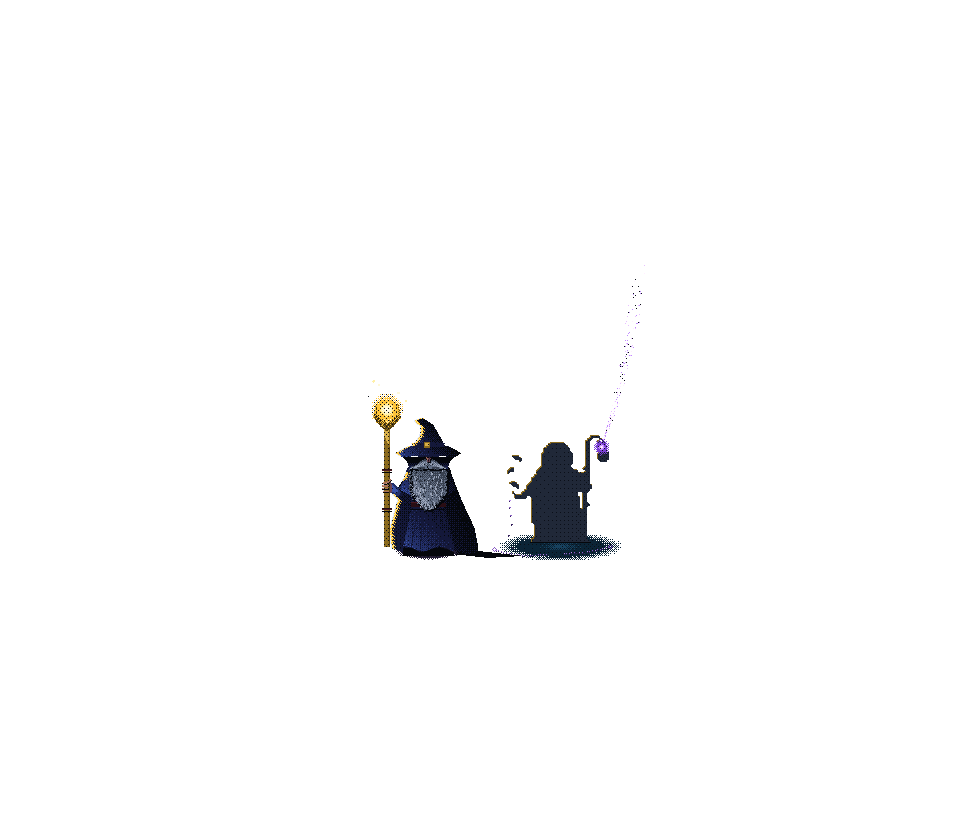
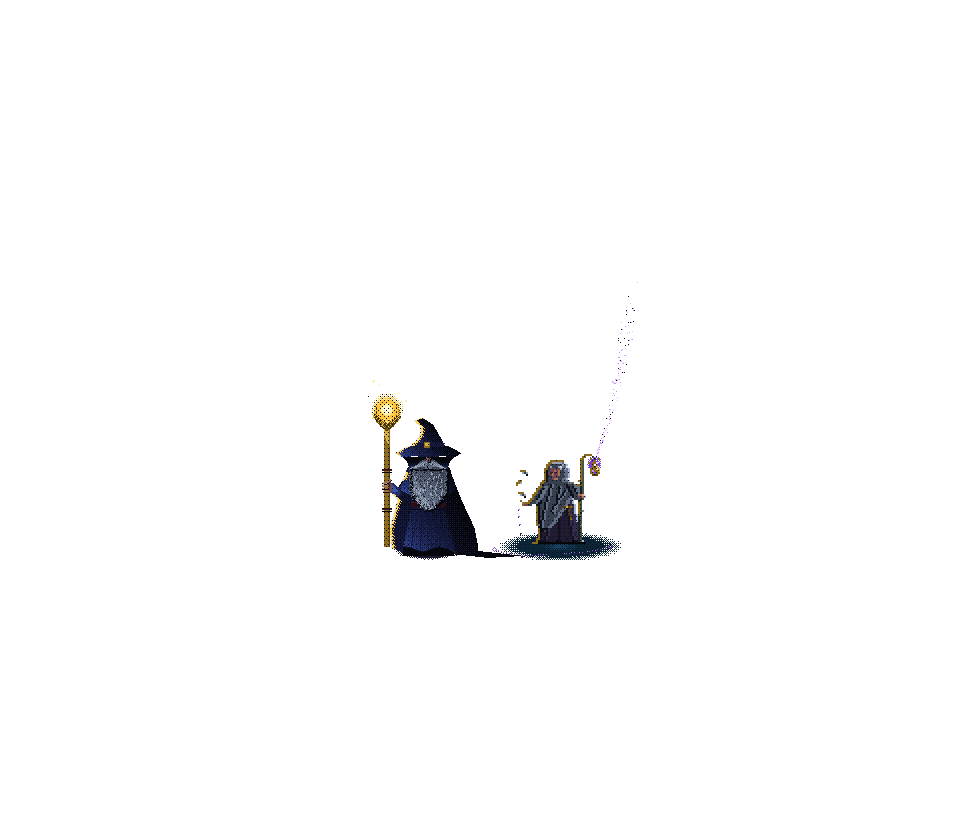
Cutscenes: the four and the freed wizards drawn from their real sprites
Eric, 2026-11-03: "Redraw with real sprites." The break, the five and the six freed reels
drew their wizards as flat one-colour silhouettes (roster_figure), which made Wayland one
amber shape. They are now each wizard's own 48 cell, every pixel, at a whole x2 on the
panel's grid (sprite_figure, SPRITE_K), in his own colours, rimmed one sprite pixel deep.

In the break the four begin three stops into the dark (_tone: pigments down their rows,
their element light out), their only lit edge the chain's light as violet pigment; from
the break the Archmage's gold; and each comes up into his own colours a stop at a time as
his light returns. The moot, the fall and the procession keep the silhouettes.
"You went back for them." stays.

Changed region(s): [[0.5312, 0.5262, 0.6562, 0.65]]

diff --git a/tools/art/prologue.py b/tools/art/prologue.py
@@ -1488,6 +1488,84 @@ def _wrist(who, strip, frame, cx, yb, h, facing):
     return ((x1 - 4) if facing > 0 else (x0 + 4), y)
 
 
+# --------------------------------------------------------------------------- the real sprites
+# Eric, 2026-11-03, of the freeing's flat one-colour cut-outs: "Redraw with real sprites." In the break, the
+# five and the freed reels a wizard is his own 48 cell, every pixel of it, at a whole x2 on the panel's grid
+# (one sprite pixel is two panel pixels, four on screen): his real colours and his real light, the figure
+# the character select shows. The flat silhouettes (roster_figure) stay where the story wants a shape and not
+# yet a person - the moot, the fall, the procession.
+SPRITE_K = 2
+
+
+def _tone(steps):
+    """A colour map that puts a sprite `steps` stops into the dark: every pigment that many stops down its own
+    row (past the deep end, occlusion), his own light out (the element ramps to dull steel, then occlusion),
+    the key's rims to stone. Empty for 0: the sprite as it is."""
+    m = {}
+    if steps <= 0:
+        return m
+    for name, ramp in sorted(M.items()):
+        for i, col in enumerate(ramp):
+            key = rgb(col)
+            if key not in m:
+                m[key] = rgb(ramp[i + steps]) if i + steps < len(ramp) else rgb(OCC)
+    dull = rgb([ST[3], ST[4], OCC][min(2, steps - 1)])
+    for name, ramp in sorted(E.items()):
+        for col in ramp:
+            m.setdefault(rgb(col), dull)
+    for col in (bl.RIM, RIM_SOFT):
+        m[rgb(col)] = rgb([S[2], S[3], S[4]][min(2, steps - 1)])
+    return m
+
+
+def sprite_figure(c, who, cx, yb, strip="idle", frame=0, facing=1, steps=0, rim=None, glow=True):
+    """One of the game's wizards as he is in the game: his 48 cell at a whole SPRITE_K, turned by facing, his
+    contact row on yb (where roster_figure puts it, so the two stand on the same ground).
+
+    steps: how far into the dark (_tone) - 0 his real colours. rim=(dx, dy, colour): the sprite pixels on the
+    edge facing a light lit in that colour, one SPRITE pixel deep (lit on the cell, before the scale, so the
+    rim sits on his own grid and not on a finer one). glow: his own light's halo behind the anchor his element
+    sits at (silhouette), only while he is in his colours.
+    Returns (light, box): his light's centre, or None, and the drawn box (x0, y0, x1, y1), in frame pixels."""
+    prefix, carried, burns = who
+    k = SPRITE_K
+    cell = _sprite_cell(prefix, strip, frame)
+    if facing < 0:
+        cell = cell.transpose(Image.FLIP_LEFT_RIGHT)
+    s = Cv(CELL + 2, CELL + 2)
+    s.img.paste(cell, (1, 1), cell)
+    s.px = s.img.load()
+    tone = _tone(steps)
+    if tone:
+        for y in range(s.h):
+            for x in range(s.w):
+                p = s.px[x, y]
+                if p[3] and p in tone:
+                    s.px[x, y] = tone[p]
+    if rim:
+        edge_light(s, rim[2], rim[:2])
+    big = s.img.resize((s.w * k, s.h * k), Image.NEAREST)
+    left = int(round(cx - (CELL / 2.0 + 1) * k))
+    top = int(round(yb - CELL * k))
+    _pixels, anchor = silhouette(prefix, strip, frame, carried)
+    light = None
+    if anchor:
+        light = (cx + (anchor[0] - CELL / 2.0) * k * facing, yb + (anchor[1] - (CELL - 1)) * k)
+        if glow and steps <= 0:
+            ramp = E[burns]
+            c.radial(light[0], light[1], 4.2 * k, 4.2 * k, [ramp[3], ramp[3], None])
+    c.img.paste(big, (left, top), big)
+    c.px = c.img.load()
+    bx = big.getbbox() or (0, 0, big.size[0], big.size[1])
+    return light, (left + bx[0], top + bx[1], left + bx[2], top + bx[3])
+
+
+def sprite_wrist(box, facing):
+    """The point a chain holds a sprite figure by: his front, a little over half way down what is drawn of him."""
+    x0, y0, x1, y1 = box
+    return ((x1 - 2 * SPRITE_K) if facing > 0 else (x0 + 2 * SPRITE_K), y0 + (y1 - y0) * 0.56)
+
+
 def _chain_pts(a, b, n=40, sag=8.0):
     return [(a[0] + (b[0] - a[0]) * (k / float(n - 1)),
              a[1] + (b[1] - a[1]) * (k / float(n - 1)) + math.sin(k / float(n - 1) * math.pi) * sag)
@@ -1581,21 +1659,31 @@ def _break_frame(t, him):
         k = min(1.0, (t - BREAK_LIGHT_UP) / 0.5)
         c.radial(HIM_X, HIM_Y + 2, 70 + 80 * k, 18 + 18 * k, [G[2], G[3], G[3], G[4], G[4], None])
     wrists = []
+    broken = t >= BREAK_AT[0]
     for i, (who, x, y, h, f) in enumerate(FREED_FOUR):
-        relit = t >= RELIGHT_AT[i]
-        coming = RELIGHT_AT[i] - 0.6 <= t < RELIGHT_AT[i]
+        since = t - RELIGHT_AT[i]
+        coming = -0.6 <= since < 0
+        # His own sprite, kneeling (the second frame of his fall), three stops into the dark while the chain
+        # holds him, and coming up into his own colours a stop at a time as his light returns (Eric:
+        # "Redraw with real sprites").
+        steps = 3 if since < 0 else (2 if since < 0.2 else (1 if since < 0.4 else 0))
+        # Their only lit edge before the break is the dark wizard's light, his chain's, landing as the violet
+        # it makes (the rule: his ramp is emission on him and the chain alone); once the chain breaks it is
+        # the Archmage's gold, from his staff.
+        if broken:
+            toward = (HIM_X - x, (HIM_Y - 60) - (y - 50))
+            n = math.hypot(*toward) or 1.0
+            rim = (toward[0] / n, toward[1] / n, G[2])
+        else:
+            rim = (f, 0, V[2])
+        light, box = sprite_figure(c, who, x, y, strip="death", frame=1, facing=f, steps=steps, rim=rim)
         # Their own light coming back to them, out of the sky it was drawn into, just before it lights.
-        if coming or relit:
-            ax, ay = light_at(who, x, y, h, "death", 1, f)
-            span = min(1.0, (t - (RELIGHT_AT[i] - 0.6)) / 0.6)
+        if light and (coming or since >= 0):
+            ax, ay = light
+            span = min(1.0, (since + 0.6) / 0.6)
             motes(c, (ax - f * 40, ay - 120), (ax, ay), int(70 * span) if coming else 18, 900 + i,
                   [E[who[2]]], spread=10, bow=-14)
-        toward = (HIM_X - x, (HIM_Y - 60) - (y - h * 0.5))
-        n = math.hypot(*toward) or 1.0
-        rim = (toward[0] / n, toward[1] / n, G[2]) if lit else (0, -1, V[3])
-        roster_figure(c, who, x, y, h, [OCC, S[4]], strip="death", frame=1, facing=f,
-                      lit=relit, dim=not relit, toward=rim)
-        wrists.append(_wrist(who, "death", 1, x, y, h, f))
+        wrists.append(sprite_wrist(box, f))
     # The chain: three lengths, wrist to wrist, the middle one behind him.
     spans = [(wrists[0], wrists[1]), (wrists[1], wrists[2]), (wrists[2], wrists[3])]
     order = [1, 0, 2]
@@ -1622,11 +1710,13 @@ def _break_frame(t, him):
 
 def p_break():
     """6. "You went back for them." The hiding's heath again, the tower on its horizon, and the four he
-    could reach - the disciplines - on their knees in a row, bound wrist to wrist by his chain, their
-    staves dark. The Archmage, the one he missed, stands in the middle of them, the title's own figure, his light
-    banked as it was in the hiding. It comes up (animated): his light finds the chain and it breaks,
-    the length behind him first, then the others, link by link going out as it flies; and one after
-    another their own lights come back to them out of the sky they were drawn into."""
+    could reach - the disciplines, each his own sprite (sprite_figure) put three stops into the dark - on
+    their knees in a row, bound wrist to wrist by his chain, its violet their only lit edge, their staves
+    dark. The Archmage, the one he missed, stands in the middle of them, the title's own figure, his light
+    banked as it was in the hiding. It comes up (animated): his light finds the chain and it breaks, the
+    length behind him first, then the others, link by link going out as it flies, and his gold is on their
+    edges now; and one after another their own lights come back to them out of the sky they were drawn
+    into, and each comes up into his own colours a stop at a time."""
     back, mid, fore = frame(True), frame(), frame()
     sky(back, 0, 420, [OCC, OCC, S[4], V[4], V[3]])
     stars(back, (0, 0, FW, 340), 240, 151)
@@ -1683,8 +1773,8 @@ def p_break():
 
 def p_five():
     """7. The five of them. The same heath and the same places: the four stand up where they knelt, each
-    staff burning his own element again and each robe back in the deep end of his own colour - the moot's
-    colours, the first time since the circle - and in the middle, in his warded circle, the Archmage.
+    his own sprite in his own colours, his staff burning his own element again - and in the middle, in his
+    warded circle, the Archmage.
     His chain lies on the ground in front of them, dead. Five lights on the heath where there was one; no
     line - the next panel is the road, and the one after it the player choosing which of them walks it."""
     back, mid, fore = frame(True), frame(), frame()
@@ -1717,12 +1807,12 @@ def p_five():
         mid.set(x + 1, y, S[4] if rng.random() < 0.6 else OCC)
         if rng.random() < 0.3:
             mid.set(x + 2, y + 1, OCC)
-    # The four, standing, their lights back. Back to front.
+    # The four, standing, their lights back: each his own sprite in his own colours (Eric: "Redraw with real
+    # sprites"), rimmed on the side that faces the Archmage's light. Back to front.
     for (who, x, y, h, f) in sorted(FREED_FOUR, key=lambda e: e[2]):
         toward = (HIM_X - x, -0.6 * abs(HIM_X - x))
         n = math.hypot(*toward) or 1.0
-        light, _front = roster_figure(mid, who, x, y + 4, h + 2, [ROBE[who[0]], OCC], strip="idle", frame=0,
-                                      facing=f, toward=(toward[0] / n, toward[1] / n, G[2]))
+        sprite_figure(mid, who, x, y + 4, strip="idle", frame=0, facing=f, rim=(toward[0] / n, toward[1] / n, G[2]))
     hero.wizard_hero(mid, HIM_X, HIM_Y, h=HIM_H, staff_ramp=LT)
     heath(fore, 600, 840, 900, 159, [(OCC, OCC), (OCC, S[4])], scale=1.7)
     layers = dict(back=back, mid=mid, fore=fore)

diff --git a/tools/art/freed.py b/tools/art/freed.py
@@ -11,11 +11,11 @@ scripts/Freeings.cs says when. Runs under Python 2.7 and 3 (PIL only), every ran
 rng.random(), as prologue.py's are.
 
 A TEMPLATE, NOT SIX PICTURES. One panel, the same for everyone: the heath at night with his tower on the
-horizon, the Archmage - the one he missed, the title's own figure (hero.wizard_hero) - with his light up, and beside him the
-wizard he has just freed - cut from that wizard's real sprite exactly as the prologue cuts the four
-(prologue.roster_figure: the 48 cell's pixels, filled flat in the deep end of his own colour, lit only where
-his own element sits in the sprite) - standing, his chain broken off him and falling, and his light coming
-back to him out of the sky it was drawn into. The ground and the near heath are one pair of layers shared
+horizon, the Archmage - the one he missed, the title's own figure (hero.wizard_hero) - with his light up, and
+beside him the wizard he has just freed: his real sprite, every pixel of his 48 cell at a whole x2 in his own
+colours (prologue.sprite_figure; Eric, 2026-11-03: "Redraw with real sprites" - the flat one-colour cut-out
+this drew first made Wayland one amber shape), standing, his chain broken off him and falling, and his light
+coming back to him out of the sky it was drawn into. The ground and the near heath are one pair of layers shared
 by every panel (freed-back.png, freed-fore.png); only the mid layer is the wizard's (freed-<id>-mid.png).
 So a wizard added to the roster is one row in WIZARDS, here, and one in Freeings.cs.
 
@@ -50,22 +50,22 @@ OUT = os.path.join(ROOT, "assets", "bonelight", "ui", "freed")
 PREVIEW = os.path.join(HERE, "_freed")
 
 # The wizards a chapter holds and the player frees there (UnlockCatalog: a FromEvent or chapter-deed
-# character with a rescue chapter; Freeings.WizardIds, in the same order). (character id, sprite prefix,
-# the ramp his light is in the sprite, the ramp it burns here, the deep end of his own colour.)
+# character with a rescue chapter; Freeings.WizardIds, in the same order). (character id, (sprite prefix,
+# the ramp his light is in the sprite, the ramp it burns here).)
 # Laelaps carries no light of his own (the prologue's rule): his collar's star is found as light, and it
 # burns his wind.
 WIZARDS = [
-    ("tituba", ("tituba", "water", "water"), V[3]),
-    ("vainamoinen", ("vainamoinen", "grass", "grass"), M["azure"][4]),
-    ("seimei", ("seimei", "light", "light"), LI[4]),
-    ("wayland", ("wayland", "metal", "metal"), M["amber"][4]),
-    ("sibyl", ("sibyl", "arcane", "arcane"), ST[4]),
-    ("laelaps", ("laelaps", "light", "wind"), G[4]),
+    ("tituba", ("tituba", "water", "water")),
+    ("vainamoinen", ("vainamoinen", "grass", "grass")),
+    ("seimei", ("seimei", "light", "light")),
+    ("wayland", ("wayland", "metal", "metal")),
+    ("sibyl", ("sibyl", "arcane", "arcane")),
+    ("laelaps", ("laelaps", "light", "wind")),
 ]
 
 # Where they stand: the Archmage left of the middle, the freed wizard right of it, turned to him.
 HIM_X, HIM_Y, HIM_H = 428, 548, 120
-WIZ_X, WIZ_Y, WIZ_H = 560, 542, 112
+WIZ_X, WIZ_Y = 560, 542
 
 
 def p_ground():
@@ -92,21 +92,24 @@ def p_ground():
     return back, fore
 
 
-def p_freed(who, robe, seed):
+def p_freed(who, seed):
     """One wizard's mid layer: him, and the wizard he has freed."""
     mid = pr.frame()
     prefix, carried, burns = who
     halo = pr.HALO[burns]
     mid.radial(WIZ_X, WIZ_Y + 4, 64, 15, [halo[3], halo[4], halo[4], None])
+    # Where his sprite puts his light and his wrist, measured on a scratch layer: the motes go behind him.
+    rim = (-0.8, -0.5, G[2])
+    light, box = pr.sprite_figure(pr.frame(), who, WIZ_X, WIZ_Y, strip="idle", frame=0, facing=-1, rim=rim)
     # His light coming back to him, out of the sky (the procession's motes, the other way).
-    ax, ay = pr.light_at(who, WIZ_X, WIZ_Y, WIZ_H, "idle", 0, -1)
+    ax, ay = light or ((box[0] + box[2]) / 2.0, box[1] + 10)
     pr.motes(mid, (ax + 40, ay - 180), (ax, ay), 190, seed, [E[burns]], spread=16, bow=-24)
     # The chain off him. Drawn after him, in front: two lengths of it on the ground at his feet with the
     # light still going out of them, its two shackles open, and the last of it falling from his wrist.
     # (Dead links in occlusion on the dark ground were tried first and could not be seen at all: the
     # chain is his light, and it has to read as his chain going out, not as gravel.)
     rng = random.Random(seed + 1)
-    wx, wy = pr._wrist(who, "idle", 0, WIZ_X, WIZ_Y, WIZ_H, -1)
+    wx, wy = pr.sprite_wrist(box, -1)
     chain = []
     for (a, b, sag) in [((WIZ_X - 64, WIZ_Y + 8), (WIZ_X - 14, WIZ_Y + 12), 3.0),
                         ((WIZ_X + 4, WIZ_Y + 11), (WIZ_X + 48, WIZ_Y + 5), 2.0)]:
@@ -115,8 +118,7 @@ def p_freed(who, robe, seed):
     falling = []
     for k, col in enumerate([DK[1], DK[2], DK[2], DK[3], DK[3], V[3]]):
         falling.append((wx - 2 + (rng.random() - 0.5) * 1.6 * k, wy + 5 + k * 6 + k * k * 0.7, col))
-    pr.roster_figure(mid, who, WIZ_X, WIZ_Y, WIZ_H, [robe, OCC], strip="idle", frame=0, facing=-1,
-                     toward=(-0.8, -0.5, G[2]))
+    pr.sprite_figure(mid, who, WIZ_X, WIZ_Y, strip="idle", frame=0, facing=-1, rim=rim)
     for pts in chain:
         pr._chain(mid, pts, colors=(DK[2], DK[1]))
     for (x, y) in shackles:
@@ -155,10 +157,10 @@ def main(argv):
     back.img.save(os.path.join(OUT, "freed-back.png"))
     fore.img.save(os.path.join(OUT, "freed-fore.png"))
     print("%-18s %d off-contract pixels" % ("freed (ground)", sum(bad.values())))
-    for i, (wid, who, robe) in enumerate(WIZARDS):
+    for i, (wid, who) in enumerate(WIZARDS):
         if want and wid not in want:
             continue
-        mid = p_freed(who, robe, 700 + i * 10)
+        mid = p_freed(who, 700 + i * 10)
         pr.finish(dict(mid=mid), 0.9, cy=pr.CY + 60)
         bad = pr.audit(dict(mid=mid))
         total_bad += sum(bad.values())

diff --git a/.ai/cutscenes.md b/.ai/cutscenes.md
@@ -16,7 +16,7 @@ Three things, and each beat below uses at least one:
 
 1. **He acts.** Until now the story shows him hiding (the prologue's panel 5) and walking away (panel 6).
    A hero the player is asked to be has to *do* something on screen: break a chain, go back for someone.
-2. **He is seen with the people he saved.** The wizards are the game's own, cut from their real sprites,
+2. **He is seen with the people he saved.** The wizards are the game's own, drawn from their real sprites,
    so the one standing beside him in a cutscene is the one the player picks on the next screen.
 3. **"You."** The prologue already says *"You are the one he missed."* One more line in that voice makes
    what he does the player's own act. Never more than one line a beat (Eric: *"Overall keep text minimal."*).
@@ -55,8 +55,8 @@ played straight after:
 
 | # | panel | line | what |
 |---|---|---|---|
-| 6 | The break (`break`, 5.4 s) | *You went back for them.* | **Animated.** The hiding's heath, his tower on the horizon. The four disciplines - Pyromancer, Geomancer, Frostweaver, Stormcaller, cut from their real sprites (the second frame of each one's death strip: going down) - kneel in a row, bound wrist to wrist by the dark wizard's chain of light, their staves dark. The Archmage stands in the middle of them, the title's own figure, his light banked as it was in the hiding. At 1.3 s it comes up; at 2.0 s it bursts and the chain breaks - the length behind him first, then the outer two, then the shackles - link by link going out as it flies (the darkness ramp down to violet, then nothing), one link in four falling dead to the ground. From 3.2 s their own lights come back to them one after another, motes falling out of the sky they were drawn into in panel 4. |
-| 7 | The five (`five`, 4.8 s) | - | The same heath and the same places: the four stand where they knelt (the dissolve is the moment they rise), each staff burning his own element again and each robe back in the deep end of his own colour - the moot's colours, the first time since the circle. The Archmage in the middle, in his warded circle as on the title. Each light's pool on the ground in the pigment it makes; the dead chain on the ground in front of them. Five lights on the heath where the last two panels had one. |
+| 6 | The break (`break`, 5.4 s) | *You went back for them.* | **Animated.** The hiding's heath, his tower on the horizon. The four disciplines - Pyromancer, Geomancer, Frostweaver, Stormcaller, each his own real sprite (the second frame of his death strip: going down) put three stops into the dark - kneel in a row, bound wrist to wrist by the dark wizard's chain of light, their staves dark, the chain's violet their only lit edge. The Archmage stands in the middle of them, the title's own figure, his light banked as it was in the hiding. At 1.3 s it comes up; at 2.0 s it bursts and the chain breaks - the length behind him first, then the outer two, then the shackles - link by link going out as it flies (the darkness ramp down to violet, then nothing), one link in four falling dead to the ground, and the Archmage's gold is on their edges now. From 3.2 s their own lights come back to them one after another, motes falling out of the sky they were drawn into in panel 4, and each comes up into his own colours a stop at a time. |
+| 7 | The five (`five`, 4.8 s) | - | The same heath and the same places: the four stand where they knelt (the dissolve is the moment they rise), each his own sprite in his own colours, his staff burning his own element again, rimmed in the Archmage's gold on the side that faces him. The Archmage in the middle, in his warded circle as on the title. Each light's pool on the ground in the pigment it makes; the dead chain on the ground in front of them. Five lights on the heath where the last two panels had one. |
 
 Then the road (unchanged) and the character select, where all five are playable.
 
@@ -65,11 +65,23 @@ went back for them.* - past tense like the first two, "you" like the third. It s
 picture cannot: that the figure breaking the chain is the player.
 
 **Rules it keeps** (`.ai/prologue.md`): the dark wizard's light is the chain and the black sun over the
-tower, nothing else; the Archmage's is the light ramp and the gold it lands on; the four are flat-filled
-silhouettes lit only at their own element's anchor (`roster_figure`); nothing from the Sketchbook; feet
+tower, nothing else; the Archmage's is the light ramp and the gold it lands on; the four are their real
+sprites (below); nothing from the Sketchbook; feet
 above row 552, so the PC's caption band never crosses a figure. The old rule "the last two panels have one
 warm light each, and it is his" now reads: the hiding and the road have one each; the five is the one
 panel where his light gives theirs back.
+
+**Real sprites, not cut-outs** (Eric, 2026-11-03: *"Redraw with real sprites"*). The first build drew the
+four, and the freed wizards, as `roster_figure`'s flat one-colour silhouettes - right for the moot, the
+fall and the procession, where the story wants a shape and not yet a person, and wrong here, where the point
+is the person the player picks next. `sprite_figure` draws a wizard's 48 cell, every pixel, at a whole x2 on
+the panel's grid (`SPRITE_K`: one sprite pixel is two panel pixels, four on screen), turned by `facing`,
+with a rim lit one SPRITE pixel deep (on the cell, before the scale, so it sits on his grid) and, while he is
+in his colours, his own light's halo behind his element's anchor. `steps` puts him into the dark (`_tone`):
+every pigment that many stops down its own row, his element ramps to dull steel and then occlusion, the key's
+rims to stone. In the break the four are at 3 until their light returns, then 2, 1, 0 a fifth of a second
+apart. Before the chain breaks their only lit edge is its light landing as violet pigment (the rule: the
+darkness ramp is emission on him and his chain alone); from the break on it is the Archmage's gold.
 
 **The animation** is the hiding's machinery (`write_anim`, `<name>-anim.png` + `.json`, Prologue.cs's
 `AnimSpec`), now per panel: `ANIMS` in `tools/art/prologue.py` holds each animated panel's box, clock and
@@ -85,8 +97,8 @@ over 5.4 s, 35 unique frames of 44 ticks. Its still mid layer is empty inside th
 One panel, 6 s, made once as a template (`tools/art/freed.py`): the heath at night, the moon, his tower
 far off on the horizon (he still holds the land). The Archmage left of the middle, the title's figure with
 his light up and the gold it makes on the ground; right of it, turned to him, the wizard he has just freed -
-cut from that wizard's real sprite (idle) exactly as the prologue cuts the four, filled flat in the deep end
-of his own colour, rimmed by the Archmage's light - his own light burning again at its anchor, motes of it
+his real sprite (idle) in his own colours, drawn as the break and the five draw the four (`sprite_figure`),
+rimmed by the Archmage's light - his own light burning again at its anchor, motes of it
 falling back to him out of the sky. The chain is off him: two lengths on the ground at his feet with the
 light going out of them, the shackles open, the last of it falling from his wrist.
 
@@ -214,7 +226,8 @@ nothing).
 - The line *You went back for them.* - the only new copy in the prologue.
 - The break at full size on a real screen: whether the four read as kneeling wizards before the light comes
   up (they are dark shapes on cold ground for the first 1.3 s), and whether the burst is too much.
-- The five: whether the moot's flat colours on the four read as "their colours back" or as cut-outs.
+- The real sprites at x2 beside the Archmage, who is drawn on the panel's finer grid and stands half a
+  head taller: whether the two scales sit together, and whether the freed wizard reads as small beside him.
 - The freed template: whether one ground for every chapter is enough, or each wants its own place (the
   Dungeon's cell, the Waste's ice) - the template takes a per-wizard ground with one more `WIZARDS` column.
 - Whether C and D are wanted, and in that form.
